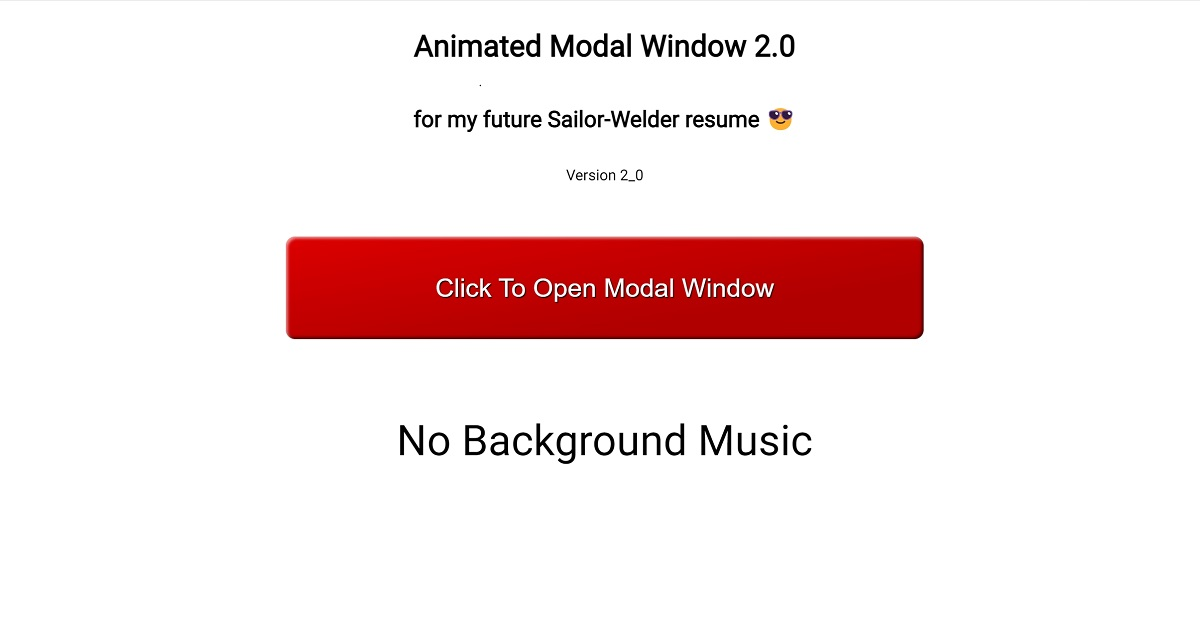
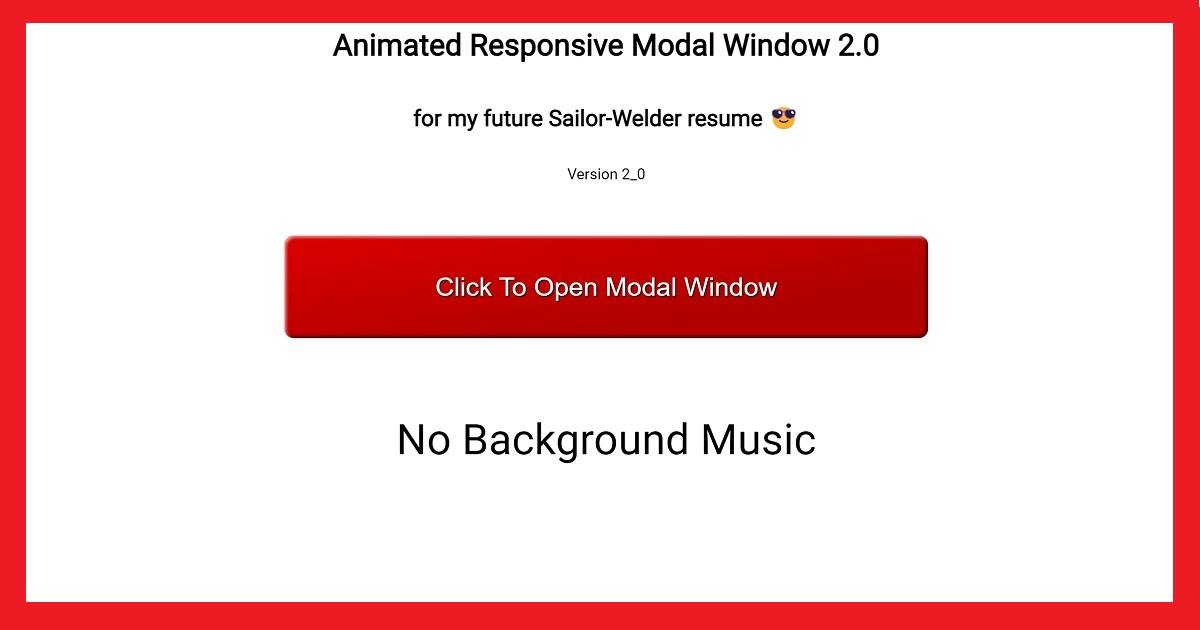
refactor: minor UI improvements

diff --git a/index.html b/index.html
@@ -5,25 +5,25 @@
     <meta charset="UTF-8">
     <meta http-equiv="X-UA-Compatible" content="IE=edge">
     <meta name="viewport" content="width=device-width, initial-scale=1.0">
-    <meta name="description" content="Animated JavaScript modal window Version 2.0 🪟">
+    <meta name="description" content="Animated Responsive JavaScript modal window Version 2.0 🪟">
     <meta name="keywords"
         content="app idea project, free web dev tutorial, free js web tutorial, JavaScript app, JavaScript tutorial, project for javascript">
     <meta name="author" content="Hacking-NASSA-with-HTML Vyacheslav Plekhanov">
-    <meta property="og:url" content="https://hacking-nassa-with-html.github.io/modal_window_2_0/" />
-    <meta property="og:title" content="Animated JavaScript modal window Version 2.0 🪟" />
-    <meta property="og:description" content="Fully working animated modal window project" />
+    <meta property="og:url" content="https://hacking-nassa-with-html.github.io/animated_modal_window_2_0/" />
+    <meta property="og:title" content="Animated Responsive JavaScript modal window Version 2.0 🪟" />
+    <meta property="og:description" content="Fully working animated responsive modal window project" />
     <meta property="og:image"
-        content="https://hacking-nassa-with-html.github.io/modal_window_2_0/assets/img/FB_open_graph_1200x630_image.jpg" />
+        content="https://hacking-nassa-with-html.github.io/animated_modal_window_2_0/assets/img/FB_open_graph_1200x630_image.jpg" />
     <meta property="og:image:width" content="1200" />
     <meta property="og:image:height" content="630" />
     <meta property="og:locale" content="en" />
     <meta property="og:type" content="website" />
     <meta property="fb:app_id" content="842172082628945" />
     <meta property="og:image"
-        content="https://hacking-nassa-with-html.github.io/modal_window_2_0/assets/img/whatsapp_OG_400x400_image.jpg" />
+        content="https://hacking-nassa-with-html.github.io/animated_modal_window_2_0/assets/img/whatsapp_OG_400x400_image.jpg" />
     <meta property="og:image:width" content="400" />
     <meta property="og:image:height" content="400" />
-    <title>Animated Modal Window</title>
+    <title>Animated Responsive Modal Window</title>
     <link rel="icon" href="./assets/img/favicon.ico" />
     <link rel="apple-touch-icon" sizes="180x180"
         href="https://hacking-nassa-with-html.github.io/The-functioning-of-JS-buttons/apple-touch-icon.png">

diff --git a/assets/js/initialStructure.js b/assets/js/initialStructure.js
@@ -4,7 +4,7 @@ function mainPageContent() {
     const renderMainPageContent =
         `
         <div class="container">
-            <h1>Animated Modal Window 2.0</h1>
+            <h1>Animated Responsive Modal Window 2.0</h1>
             <h2>for my future Sailor-Welder resume 😎</h2>
             <p>Version 2_0</p>
         </div>

diff --git a/README.md b/README.md
@@ -1,6 +1,6 @@
-![](https://github.com/Hacking-NASSA-with-HTML/modal_window_2_0/blob/main/assets/img/FB_open_graph_1200x630_image.jpg)
+![](https://github.com/Hacking-NASSA-with-HTML/animated_modal_window_2_0/blob/main/assets/img/FB_open_graph_1200x630_image.jpg)
 
-# Animated JavaScript modal window
+# Animated Responsive JavaScript Modal Window
 
 ## 2_0 version
 
@@ -8,7 +8,7 @@ It works as was supposed now.
 
 Enjoy!
 
-See the project on [Github Pages](https://hacking-nassa-with-html.github.io/modal_window_2_0/) .
+See the project on [Github Pages](https://hacking-nassa-with-html.github.io/animated_modal_window_2_0/) .
 
 please 🙌 let me know if you have found any issues ⭐
 
